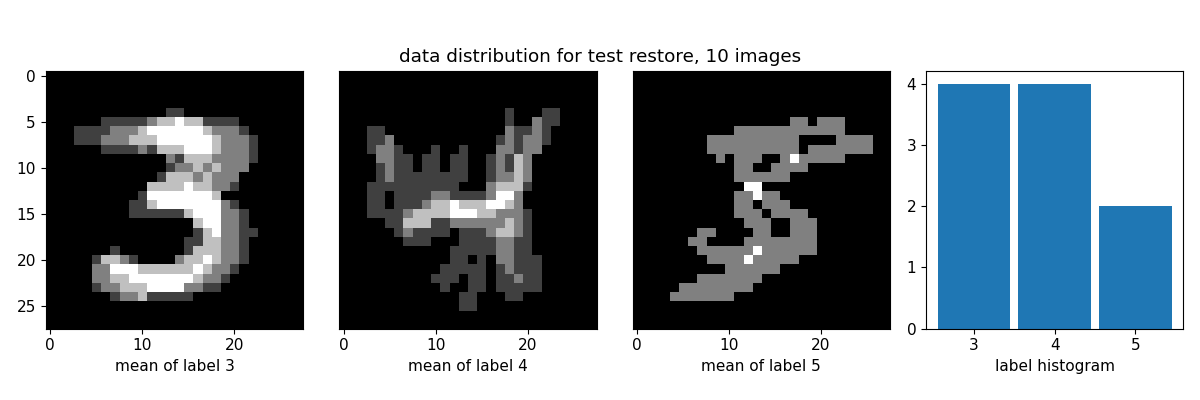
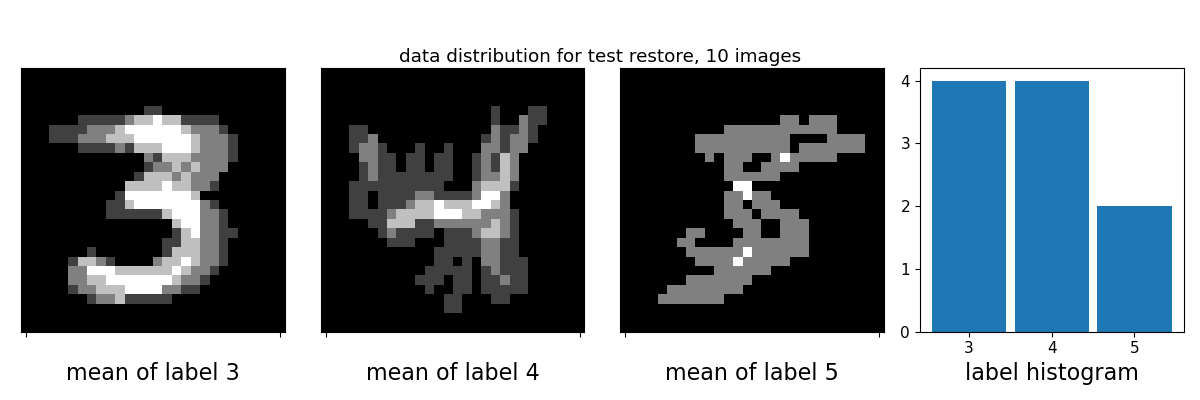
updated plots, but strange result

diff --git a/oliver/mnist.py b/oliver/mnist.py
@@ -95,14 +95,15 @@ def test_restore345(images, labels, epochs, num_images, annealing, coocurance, s
         mean = np.mean(img123[lbl123 == pick_label], axis=0).reshape(images.shape[1], images.shape[2])
         plt.subplot(1, 4, i+1)
         plt.imshow(mean, cmap='gray')
-        if i > 0:
-            plt.yticks([])
-        plt.xlabel(f'mean of label {pick_label}')
+        # if i > 0:
+        plt.yticks([])
+        plt.xticks([0, 27], [' ', ' '])
+        plt.xlabel(f'mean of label {pick_label}', fontsize=16)
     plt.suptitle(title, y=0.88)
     ax = plt.subplot(144)
     ax.hist(lbl123, bins=np.append(pick_labels, np.max(pick_labels) + 1), align='left', rwidth=0.9)
     ax.set_aspect(1.0/ax.get_data_ratio())
-    plt.xlabel('label histogram')
+    plt.xlabel('label histogram', fontsize=16)
     plt.tight_layout()
     plt.savefig(plt_savefig_path + title.replace(',', '').replace(' ', '_') + '.png')
 
@@ -126,14 +127,14 @@ def test_restore345(images, labels, epochs, num_images, annealing, coocurance, s
     plt.imshow(sample, cmap='gray')
     plt.xticks([])
     plt.yticks([])
-    plt.xlabel('sample')
+    plt.xlabel('sample', fontsize=16)
     # destroy lower half just for visualization
     sample[images.shape[1] // 2:, :] = 0
     plt.subplot(142)
     plt.imshow(sample, cmap='gray')
     plt.xticks([])
     plt.yticks([])
-    plt.xlabel('destroyed')
+    plt.xlabel('destroyed', fontsize=16)
     plt.suptitle(title, y=0.91)
     # reduce to the remaining half and flatten
     destroyed = sample[:images.shape[1] // 2, :].reshape(length // 2)
@@ -148,7 +149,7 @@ def test_restore345(images, labels, epochs, num_images, annealing, coocurance, s
     plt.imshow(sample, cmap='gray')
     plt.xticks([])
     plt.yticks([])
-    plt.xlabel('restored')
+    plt.xlabel('restored', fontsize=16)
     # try multiple restores and take average
     restores = [b.recall(destroyed, clamp_mask, output_mask) for i in range(20)]
     restore = np.mean(np.array(restores, dtype=np.float), axis=0)
@@ -157,7 +158,7 @@ def test_restore345(images, labels, epochs, num_images, annealing, coocurance, s
     plt.imshow(sample, cmap='gray')
     plt.xticks([])
     plt.yticks([])
-    plt.xlabel('mean of 20 restores')
+    plt.xlabel('mean of 20 restores', fontsize=16)
     plt.tight_layout()
     plt.savefig(plt_savefig_path + title.replace(',', '').replace(' ', '_') + '.png')
 
@@ -213,12 +214,14 @@ def test_restore345_quality(images, labels, epochs, num_images, annealing, coocu
     return hidden_layers, quality
 
 
-def plt_quality(title, xlabel, x, quality, plt_savefig_path):
+def plt_quality(title, xlabel, x, quality, plt_savefig_path, xticks=None):
     plt.figure(title.replace(',', ''), figsize=(12, 4))
     plt.plot(x, quality)
     plt.title(title)
-    plt.xlabel(xlabel)
-    plt.ylabel('quality')
+    plt.xlabel(xlabel, fontsize=16)
+    if not xticks is None:
+        plt.xticks(xticks)
+    plt.ylabel('quality q', fontsize=16)
     plt.tight_layout()
     plt.savefig(plt_savefig_path + title.replace(',', '').replace(' ', '_') + '.png')
 
@@ -232,9 +235,9 @@ def mnist_test():
     os.makedirs(plt_savefig_path, exist_ok=True)
 
     # run few images test
-    epochs = 100
+    epochs = 70
     num_images = 10
-    annealing = [(10., 100)]
+    annealing = [(8., 100)]
     coocurance = (annealing[-1][0], 10)
     synchron_update = True
     noise_probability = 0.8
@@ -254,9 +257,9 @@ def mnist_test():
     plt_quality(title, 'epochs learned', epochslist, quality, plt_savefig_path)
 
     # variate temperature on few images
-    epochs = 100
+    epochs = 70
     quality = []
-    temps = np.arange(2, 21, 2)
+    temps = [2, 4, 6, 7, 8, 9, 10, 12, 13, 14, 15, 16, 18, 20]
     for T in temps:
         print(f'T = {T}')
         annealing = [(float(T), 100)]
@@ -267,13 +270,13 @@ def mnist_test():
     weights_iter = coocurance[1]
     sync_text = 'synchron' if synchron_update else 'asynchron'
     title = f'test restore quality, {epochs} epochs, {num_images} images, {noise_probability} noise, {hidden_layers} hidden layer, {blind_iter} blind iter, {weights_iter} weights update iter, {sync_text}'
-    plt_quality(title, 'temperature T', temps, quality, plt_savefig_path)
+    plt_quality(title, 'temperature T', temps, quality, plt_savefig_path, xticks=temps)
 
     # run many images test
-    epochs = 100
+    epochs = 7
     num_images = 100
-    annealing = [(10., 100)]
-    coocurance = (annealing[-1][0], 2)
+    annealing = [(8., 100)]
+    coocurance = (annealing[-1][0], 10)
     test_restore345(images, labels, epochs, num_images, annealing, coocurance, synchron_update, noise_probability, plt_savefig_path)
 
     plt.show()

diff --git a/paper/boltzmann_machine_paper.tex b/paper/boltzmann_machine_paper.tex
@@ -522,15 +522,17 @@ To apply the BM on a simple but not too minimalistic problem, we use the MNIST d
 
 From all the digits we picked only the digits 3, 4 and 5 and only a few examples in total. Then we trained the BM on this subset, having one input for each pixel and no output in this case. To test if the BM is able to recognize the shown patterns, we picked one of the shown digits, deleted the bottom half of it and used the BM to restore the missing pixels. We tried the recall multiple times and computed the average of the results to get an idea about the distribution.
 
-Figure~\ref{fig:test_restore} shows the distributions of the input images and the results of the recalled half pattern. If only 10 different images are used for training during 100 epochs, the restored digit can be identified very well, although it is not exactly the missing half. If instead of repeating the same image 100 times, we show 10 variations 10 times each, 100 images in total, the result is not that satisfying. One reason might be, if the variations differ too much, but the distribution of the label~3 images shows, that there is not that much variation and the result should have been better.
+Figure~\ref{fig:test_restore} shows the distributions of the input images and the results of the recalled half pattern. If only 10 different images are used for training during 70 epochs, the restored digit can be identified very well, although it is not exactly the missing half. If instead of repeating the same image many times, we show some more variations of each digit, 100 images in total, the result is not that satisfying. One reason might be if the variations differ too much, but the mean over the shown label~3 images shows, that there is not that much variation and the result should have been better.
 
 We also can see that there is not much variation in calling recall more than once and the same output seems to be given each time. \todo{Why is that?}
 
 \begin{figure}[h!]
 	\begin{center}
-	\includegraphics[trim={0cm 0.5cm 0cm 0cm},clip,width=0.8\textwidth]{src/data_distribution_10_images}
-	\includegraphics[trim={0cm 1.0cm 0cm 0cm},clip,width=0.8\textwidth]{src/test_restore_10_images}
-	\includegraphics[trim={0cm 0.5cm 0cm 0cm},clip,width=0.8\textwidth]{src/data_distribution_100_images}
+	10 images learned
+	\includegraphics[trim={0.2cm 0.5cm 0cm 1.7cm},clip,width=0.79\textwidth]{src/data_distribution_10_images}
+	\includegraphics[trim={0cm 1.0cm 0cm 0cm},clip,width=0.8\textwidth]{src/test_restore_10_images}\\
+	100 images learned
+	\includegraphics[trim={0.2cm 0.5cm 0cm 1.7cm},clip,width=0.79\textwidth]{src/data_distribution_100_images}
 	\includegraphics[trim={0cm 1.0cm 0cm 0cm},clip,width=0.8\textwidth]{src/test_restore_100_images}
 	\end{center}
 	\caption{Restoring deleted pixels of MNIST digits}\label{fig:test_restore}
@@ -544,11 +546,12 @@ $$q = \sum_{x, y : p_o(x, y) = 1} \frac1{20}\sum_{\text{20 recalls}}p_r(x, y) - 
 The results in \cref{fig:test_vary_epoch_t} show that, at least for 10 images only, the results will not get better extending the training epochs.
 
 About temperature $T$ (abstract, no units) is known that at $T=0$ the BM is no longer stochastic, but deterministic. The higher $T$, the more unknown states are tested, instead of staying at the known minimum so far. A too high $T$ though will just cause a lot of noise. From this, a quality maximum is expected for some mid-range $T$. The two peaks seen in \cref{fig:test_vary_epoch_t} are not expected and without explanation. The peak at higher $T$ is considered to be of more random nature and we preferred the peak at $T=8$ for our experiment.
+\todo{whatever is seen in the T scan varies a lot}
 
 \begin{figure}[h!]
 	\begin{center}
 	\includegraphics[trim={0cm 0cm 0cm 0cm},clip,width=\textwidth]{src/test_restore_quality_10_images_vary_epochs}
-	\includegraphics[trim={0cm 0cm 0cm 0cm},clip,width=\textwidth]{src/test_restore_quality_10_images_vary_temperature}
+	\includegraphics[trim={0.4cm 0cm 0.8cm 0cm},clip,width=\textwidth]{src/test_restore_quality_10_images_vary_temperature}
 	\end{center}
 	\caption{Dependency on meta-parameters epoch number and temperature}\label{fig:test_vary_epoch_t}
 \end{figure}
